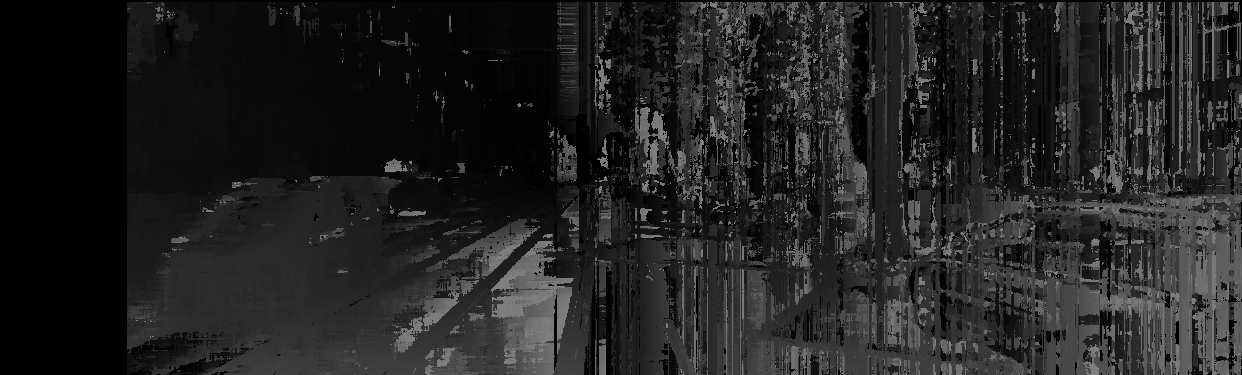
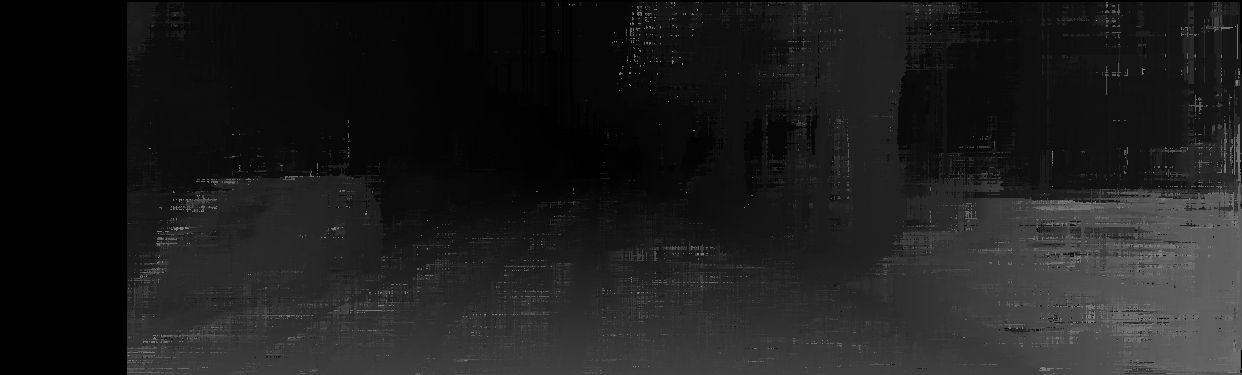
sgm_kernel: Convert the cost function from SAD to Census Transform

diff --git a/sgm_kernel.cpp b/sgm_kernel.cpp
@@ -15,8 +15,8 @@ void sgm_kernel(hls::stream<pix_t>& left,
 #pragma HLS DATAFLOW
 
     /* Line buffers for the left & right images */
-    xf::cv::LineBuffer<WIN, IMG_W, pix_t> bufL;
-    xf::cv::LineBuffer<WIN, IMG_W, pix_t> bufR;
+    xf::cv::LineBuffer<CENSUS_WIN, IMG_W, pix_t> bufL;
+    xf::cv::LineBuffer<CENSUS_WIN, IMG_W, pix_t> bufR;
 
     /* Cost arrays */
     static cost_t prevCostL[DISP];
@@ -67,8 +67,8 @@ void sgm_kernel(hls::stream<pix_t>& left,
 
 
     /* center offsets */
-    const int cy = WIN >> 1;
-    const int cx = WIN >> 1;
+    const int cy = CENSUS_CY;
+    const int cx = CENSUS_CX;
 
 RowFwd:
     for (int r = 0; r < IMG_H; r++)
@@ -123,33 +123,39 @@ RowFwd:
 
             if (r >= WIN - 1)
             {
-                /* Calculate SAD matching cost for all disparities */
-            SAD_LoopFwd:
+                /* Calculate census matching cost for all disparities */
+            Census_LoopFwd:
                 for (int d = 0; d < DISP; d++)
                 {
+
+                	pix_t centerL = bufL.getval(cy, c);
+                	pix_t centerR = pix_t(0);
 				#pragma HLS UNROLL
                     cost_t sum = 0;
                 WinYFwd:
-                    for (int wy = 0; wy < WIN; wy++)
+                    for (int wy = 0; wy < CENSUS_WIN; wy++)
                     {
 					#pragma HLS UNROLL
                     WinXFwd:
-                        for (int wx = 0; wx < WIN; wx++)
+                        for (int wx = 0; wx < CENSUS_WIN; wx++)
                         {
                         #pragma HLS UNROLL
                             int colL = c + wx - cx;
+                            int colR = (c - d) + wx - cx;
+
                             pix_t lpx = pix_t(0);
+                            pix_t rpx = pix_t(0);
 
                             if (colL >= 0 && colL < IMG_W)
                                 lpx = bufL.getval(wy, colL);
 
-                            int col_r = c - d + wx - cx;
-                            pix_t rpx = pix_t(0);
+                            if (colR >= 0 && colR < IMG_W)
+                                rpx = bufR.getval(wy, colR);
 
-                            if (col_r >= 0 && col_r < IMG_W)
-                            	rpx = bufR.getval(wy, col_r);
+                            bool bitL = (lpx < centerL);
+                            bool bitR = (rpx < centerR);
 
-                            sum += absdiff(lpx, rpx);
+                            sum += (bitL ^ bitR);
                         }
                     }
                     curCost[d] = sum;
@@ -262,29 +268,41 @@ RowFwd:
                     	if (r >= WIN - 1)
                     	{
 
-                    SAD_LoopRev:
+                    Census_LoopRev:
 						for (int d = 0; d < DISP; d++)
 						{
                     	#pragma HLS UNROLL
+							pix_t centerL = imgL[r][c];
+							pix_t centerR = pix_t(0);
+
+							int centerR_col = c - d;
+							if (centerR_col >= 0 && centerR_col << IMG_W)
+								centerR = imgR[r][centerR_col];
 							cost_t sum = 0;
 
-                    		WinYRev:
-							for (int wy = 0; wy < WIN; wy++)
+							for(int wy = 0; wy < CENSUS_WIN; wy++)
 							{
-                    		#pragma HLS UNROLL
-								WinXRev:
-								for (int wx = 0; wx < WIN; wx++)
+							#pragma HLS UNROLL
+								for(int wx = 0; wx < CENSUS_WIN; wx++)
 								{
 								#pragma HLS UNROLL
-						            int rr = r - (WIN - 1) + wy;
-						            int ccL = c + wx - cx;
-						            int ccR = (c - d) + wx - cx;
-						            pix_t lpx = pix_t(0), rpx = pix_t(0);
-						            if (rr >= 0 && rr < IMG_H && ccL >= 0 && ccL < IMG_W)
-						            	lpx = imgL[rr][ccL];
-						            if (rr >= 0 && rr < IMG_H && ccR >= 0 && ccR < IMG_W)
-						            	rpx = imgR[rr][ccR];
-						             sum += absdiff(lpx, rpx);
+									int rr = r - (CENSUS_WIN - 1) + wy;
+									int ccL = c + wx - cx;
+									int ccR = (c - d) + wx - cx;
+
+							        pix_t lpx = pix_t(0);
+							        pix_t rpx = pix_t(0);
+
+							        if (rr >= 0 && rr < IMG_H && ccL >= 0 && ccL < IMG_W)
+							                    lpx = imgL[rr][ccL];
+
+							        if (rr >= 0 && rr < IMG_H && ccR >= 0 && ccR < IMG_W)
+							                    rpx = imgR[rr][ccR];
+
+							        bool bitL = (lpx < centerL);
+							        bool bitR = (rpx < centerR);
+
+							        sum += (bitL ^ bitR);
 						         }
 						     }
 						    curCost[d] = sum;

diff --git a/sgm_params.hpp b/sgm_params.hpp
@@ -16,6 +16,11 @@ constexpr int WIN   = 3;
 
 static const cost_t INF_COST = cost_t(4095);
 
+#define CENSUS_WIN 5
+#define CENSUS_CX  (CENSUS_WIN >> 1)
+#define CENSUS_CY  (CENSUS_WIN >> 1)
+
+
 /*---------------------------------------------------------------------------*/
 static inline pix_t absdiff(pix_t a, pix_t b)
 {
